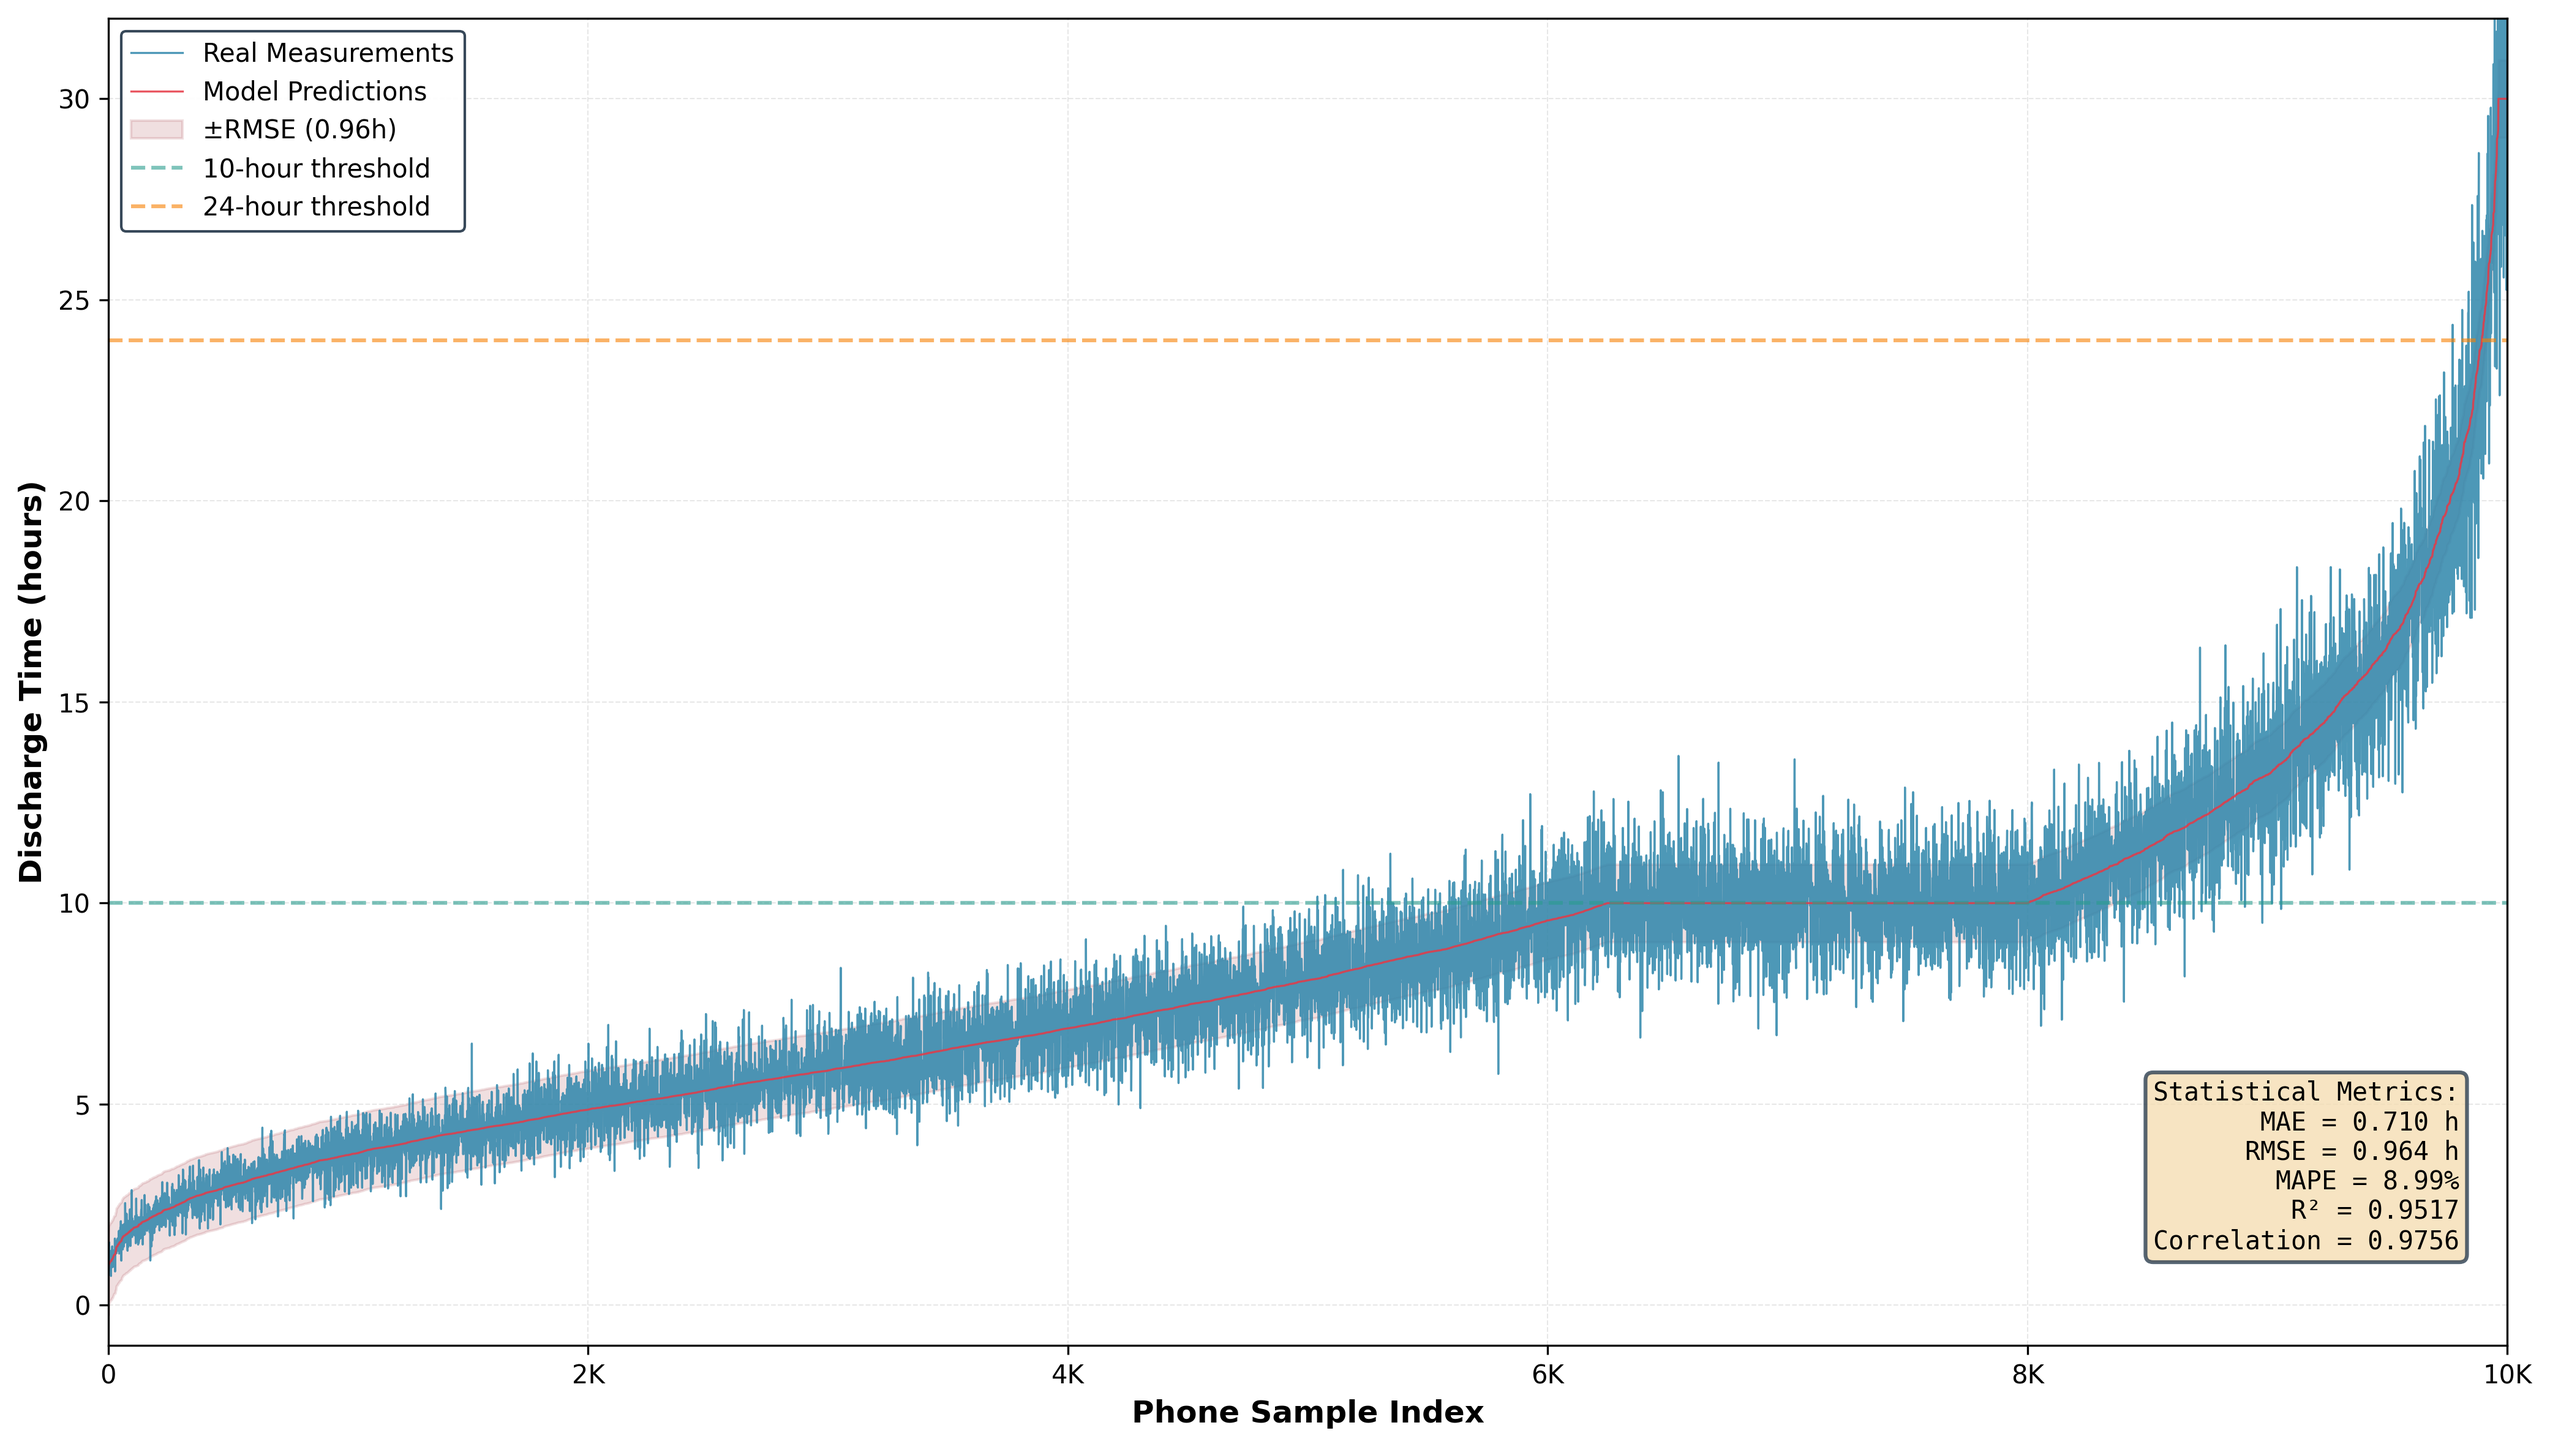
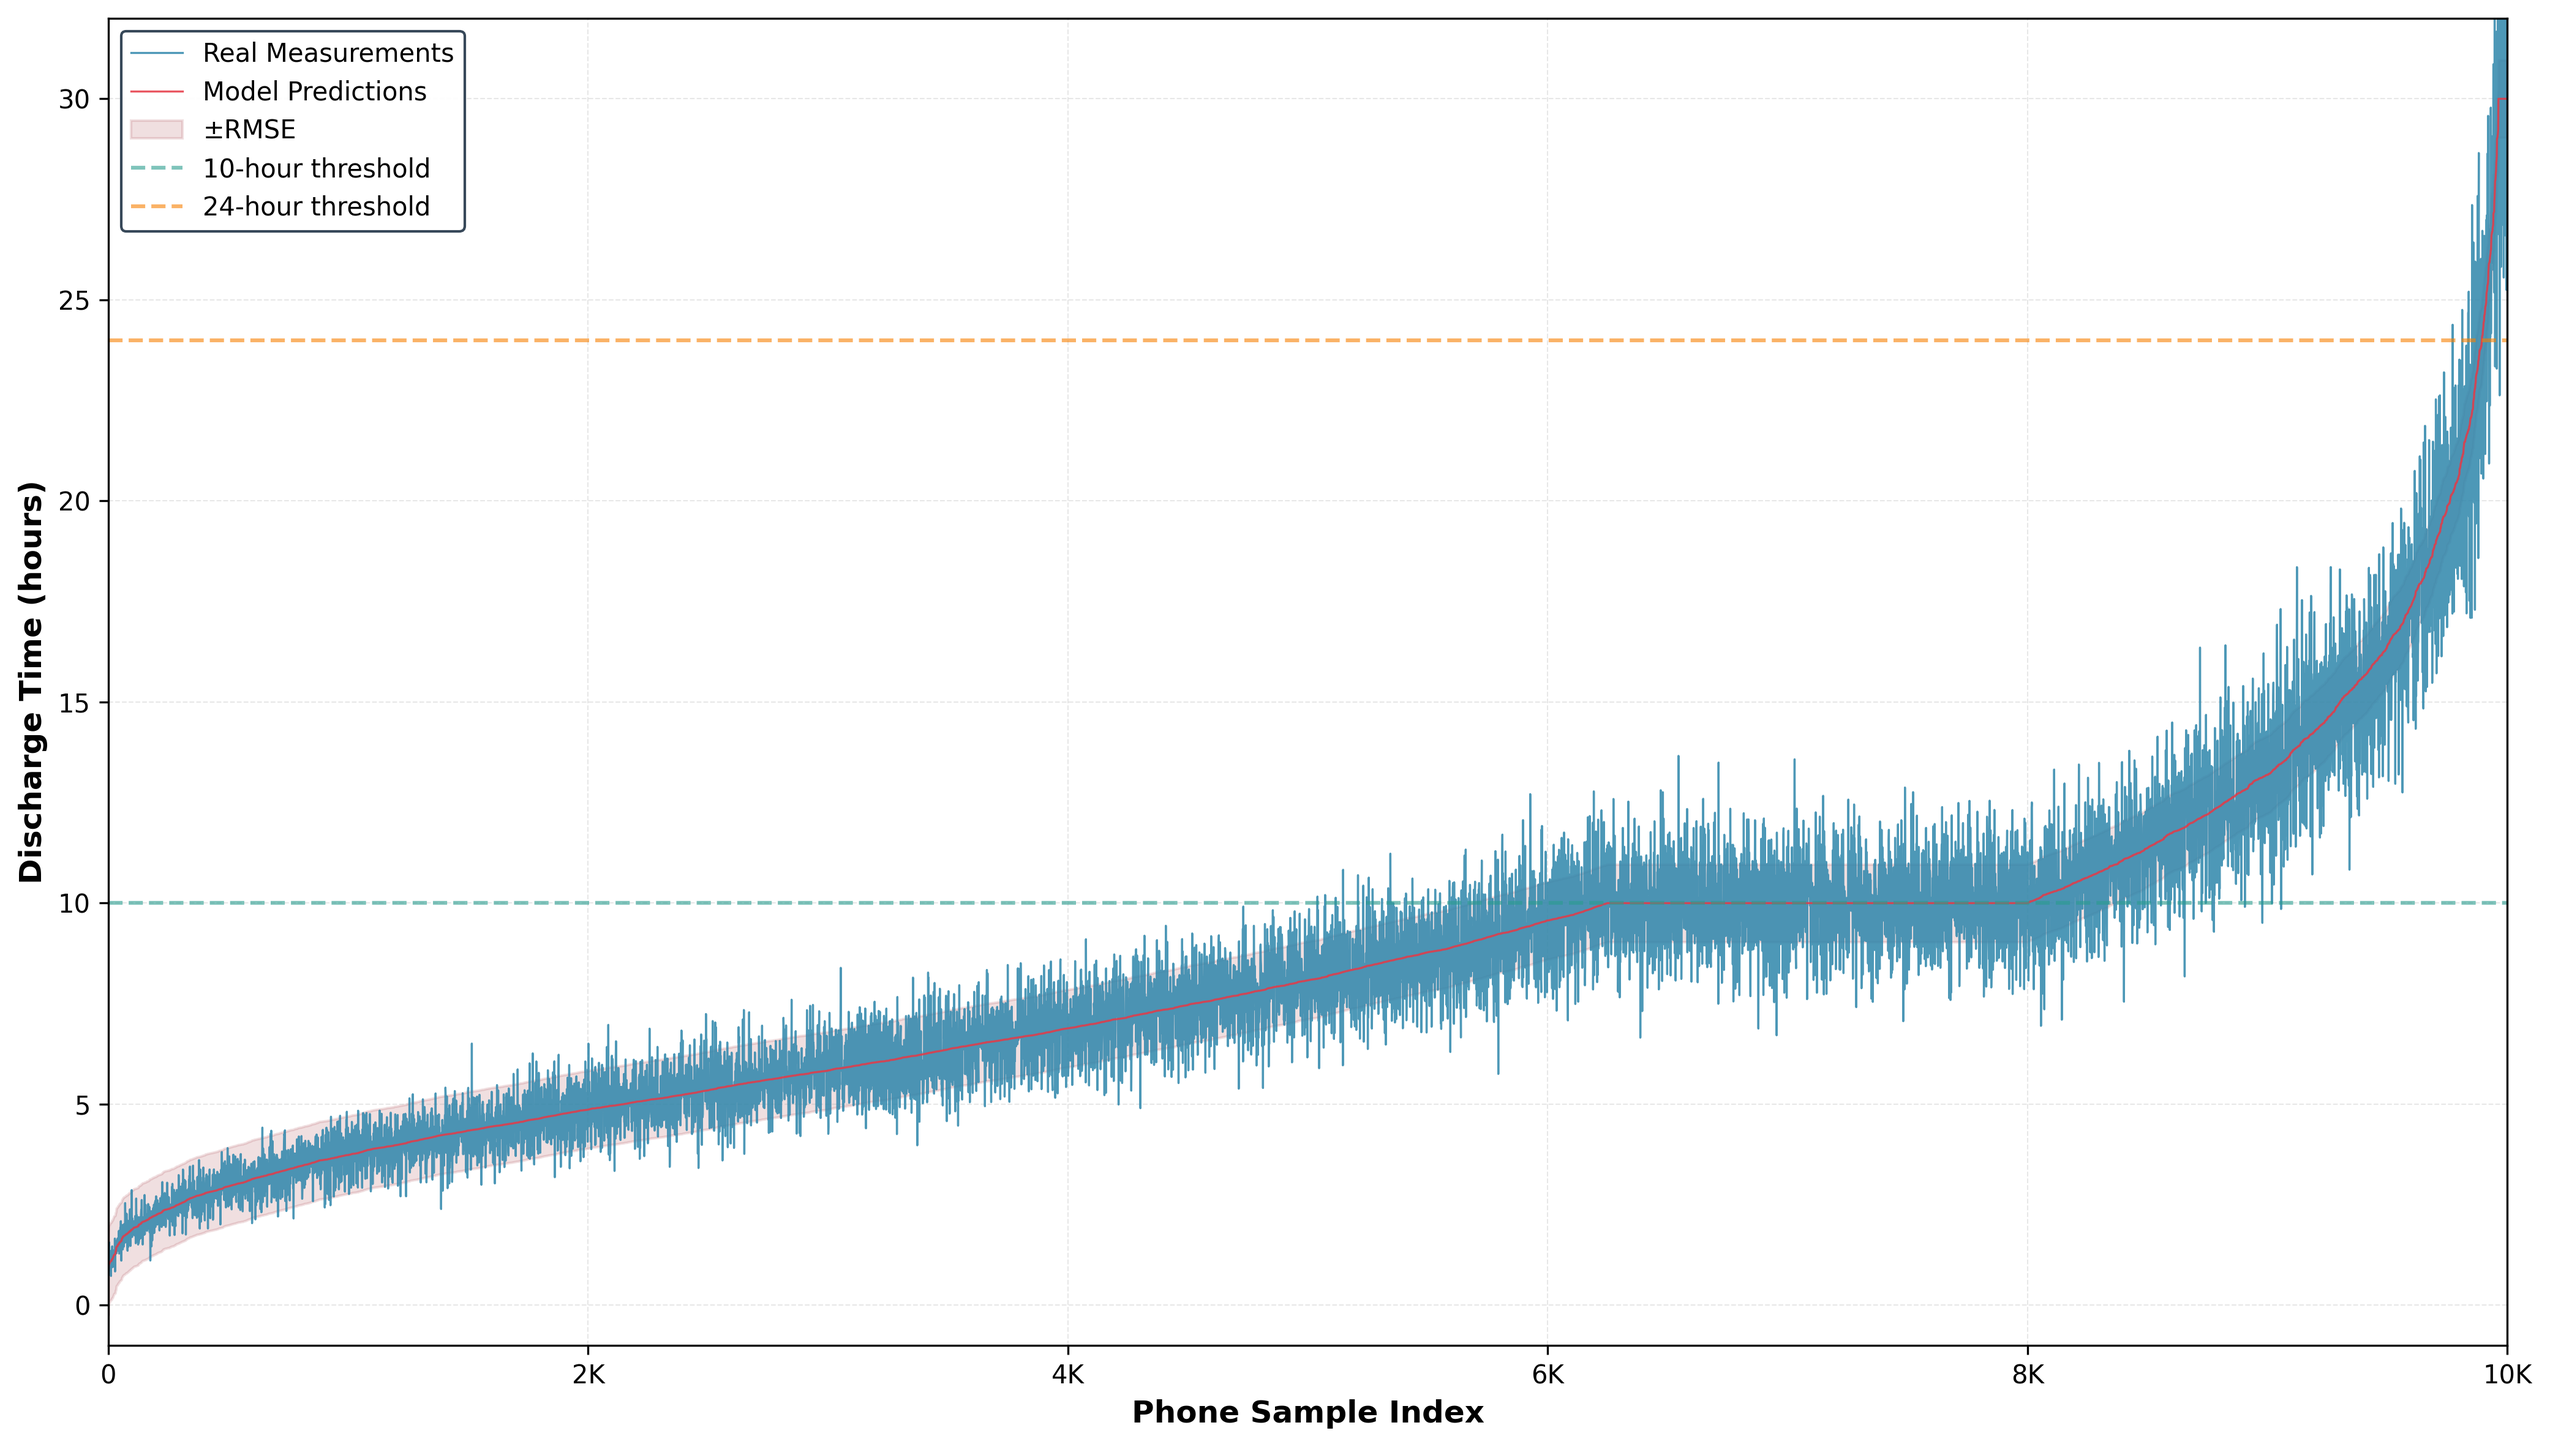
modify

Changed region(s): [[0.8429, 0.7411, 0.9678, 0.8955], [0.1249, 0.0618, 0.1561, 0.0926]]

diff --git a/问题1/plot_model_validation.py b/问题1/plot_model_validation.py
@@ -138,8 +138,8 @@ textstr += f'R² = {r_squared:.4f}\n'
 textstr += f'Correlation = {correlation:.4f}'
 
 props = dict(boxstyle='round', facecolor='wheat', alpha=0.8, edgecolor='#2C3E50', linewidth=1.5)
-ax.text(0.98, 0.20, textstr, transform=ax.transAxes, fontsize=10,
-        verticalalignment='top', horizontalalignment='right', bbox=props, family='monospace')
+#ax.text(0.98, 0.20, textstr, transform=ax.transAxes, fontsize=10,
+        #verticalalignment='top', horizontalalignment='right', bbox=props, family='monospace')
 
 # Set y-axis limits
 ax.set_ylim(-1, 32)
